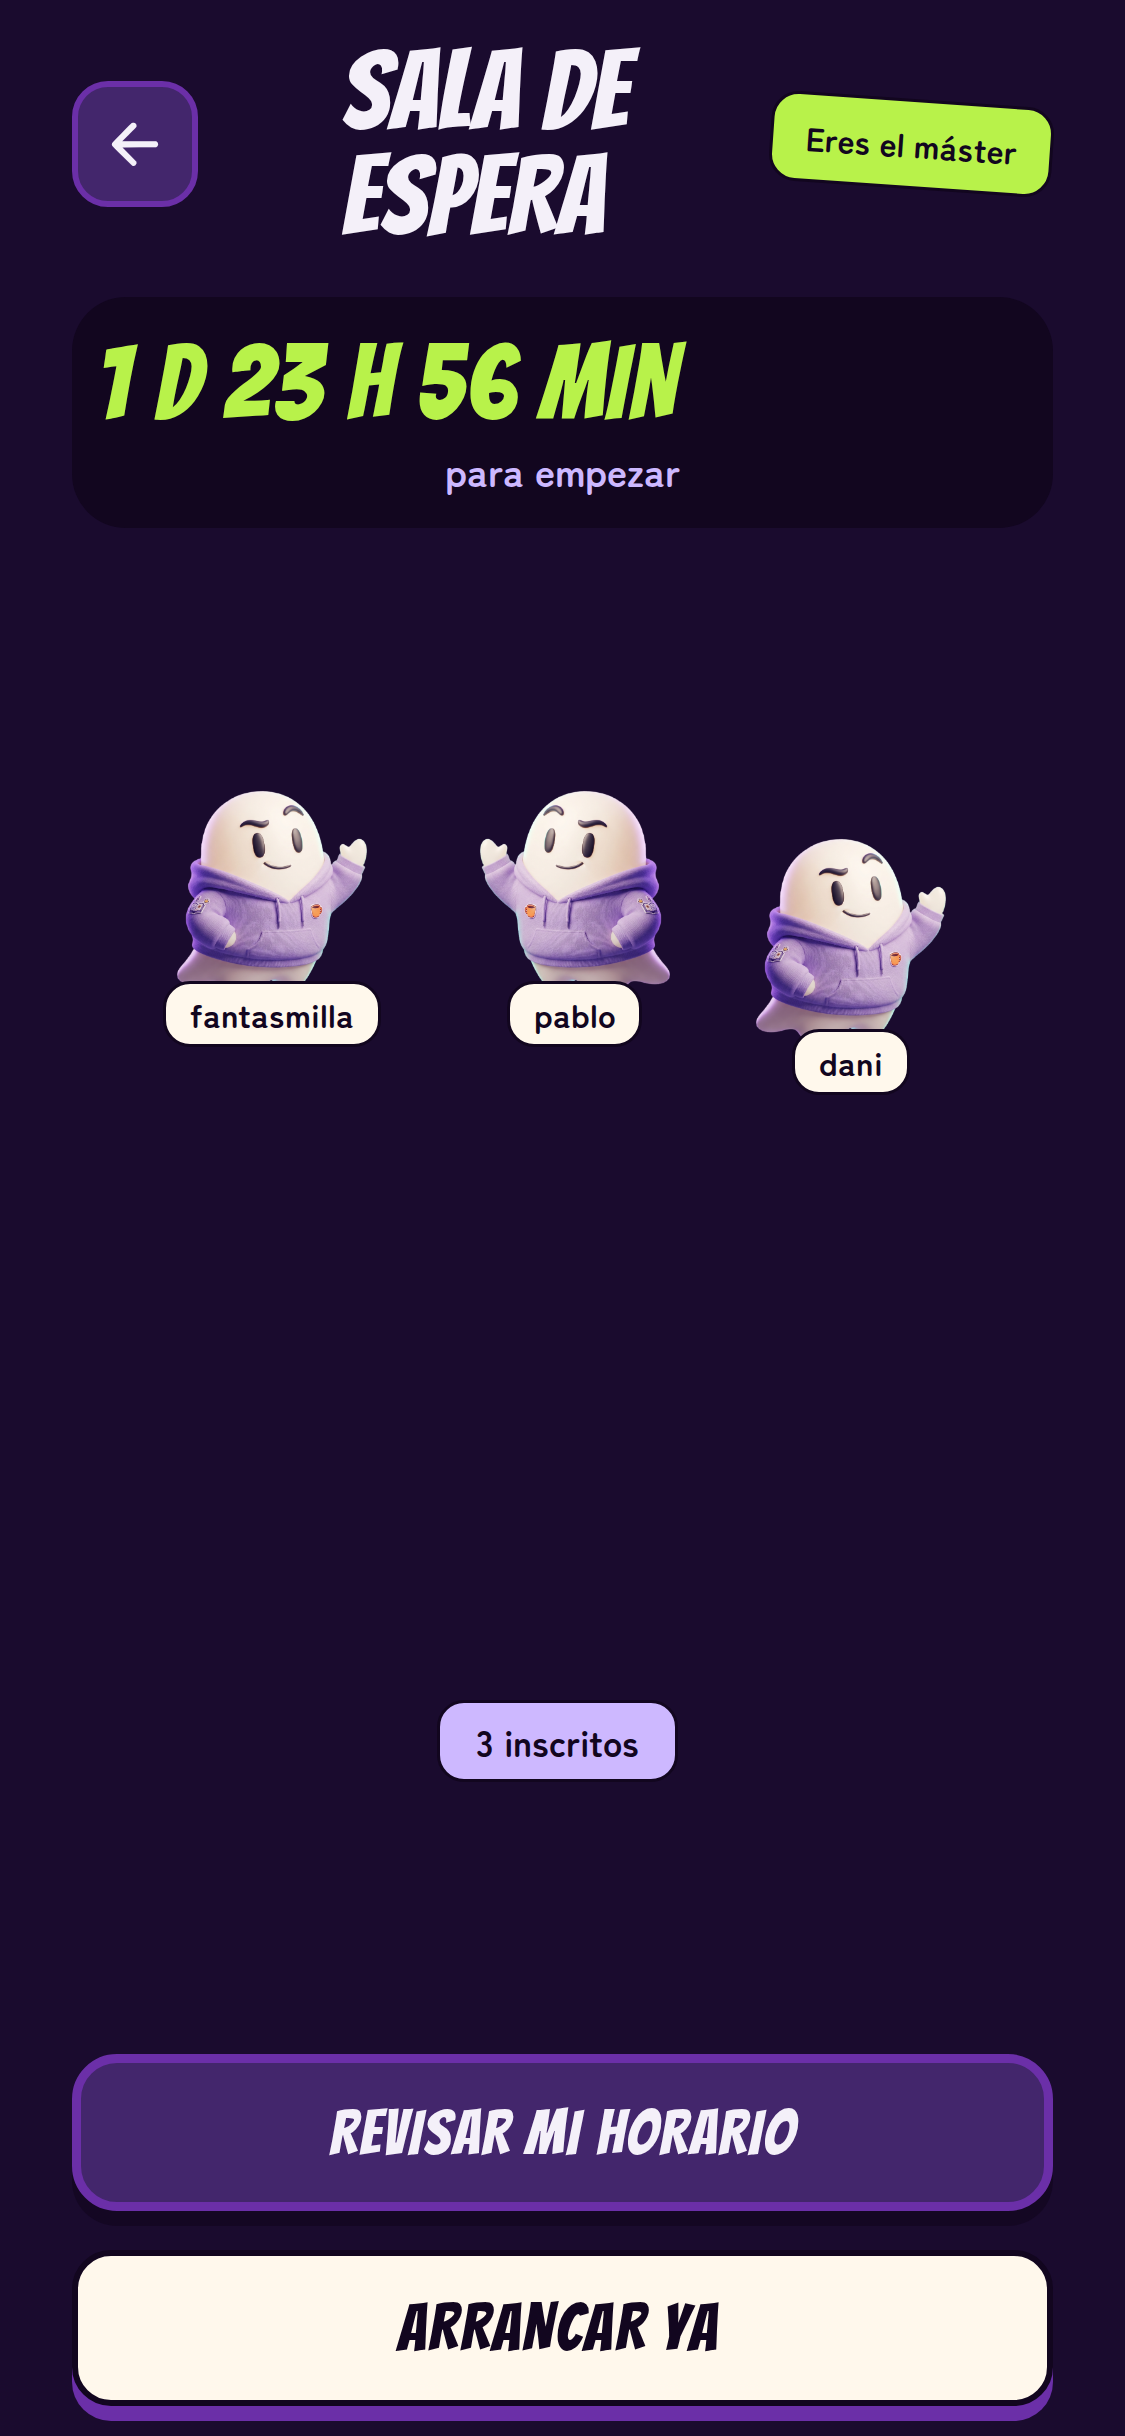
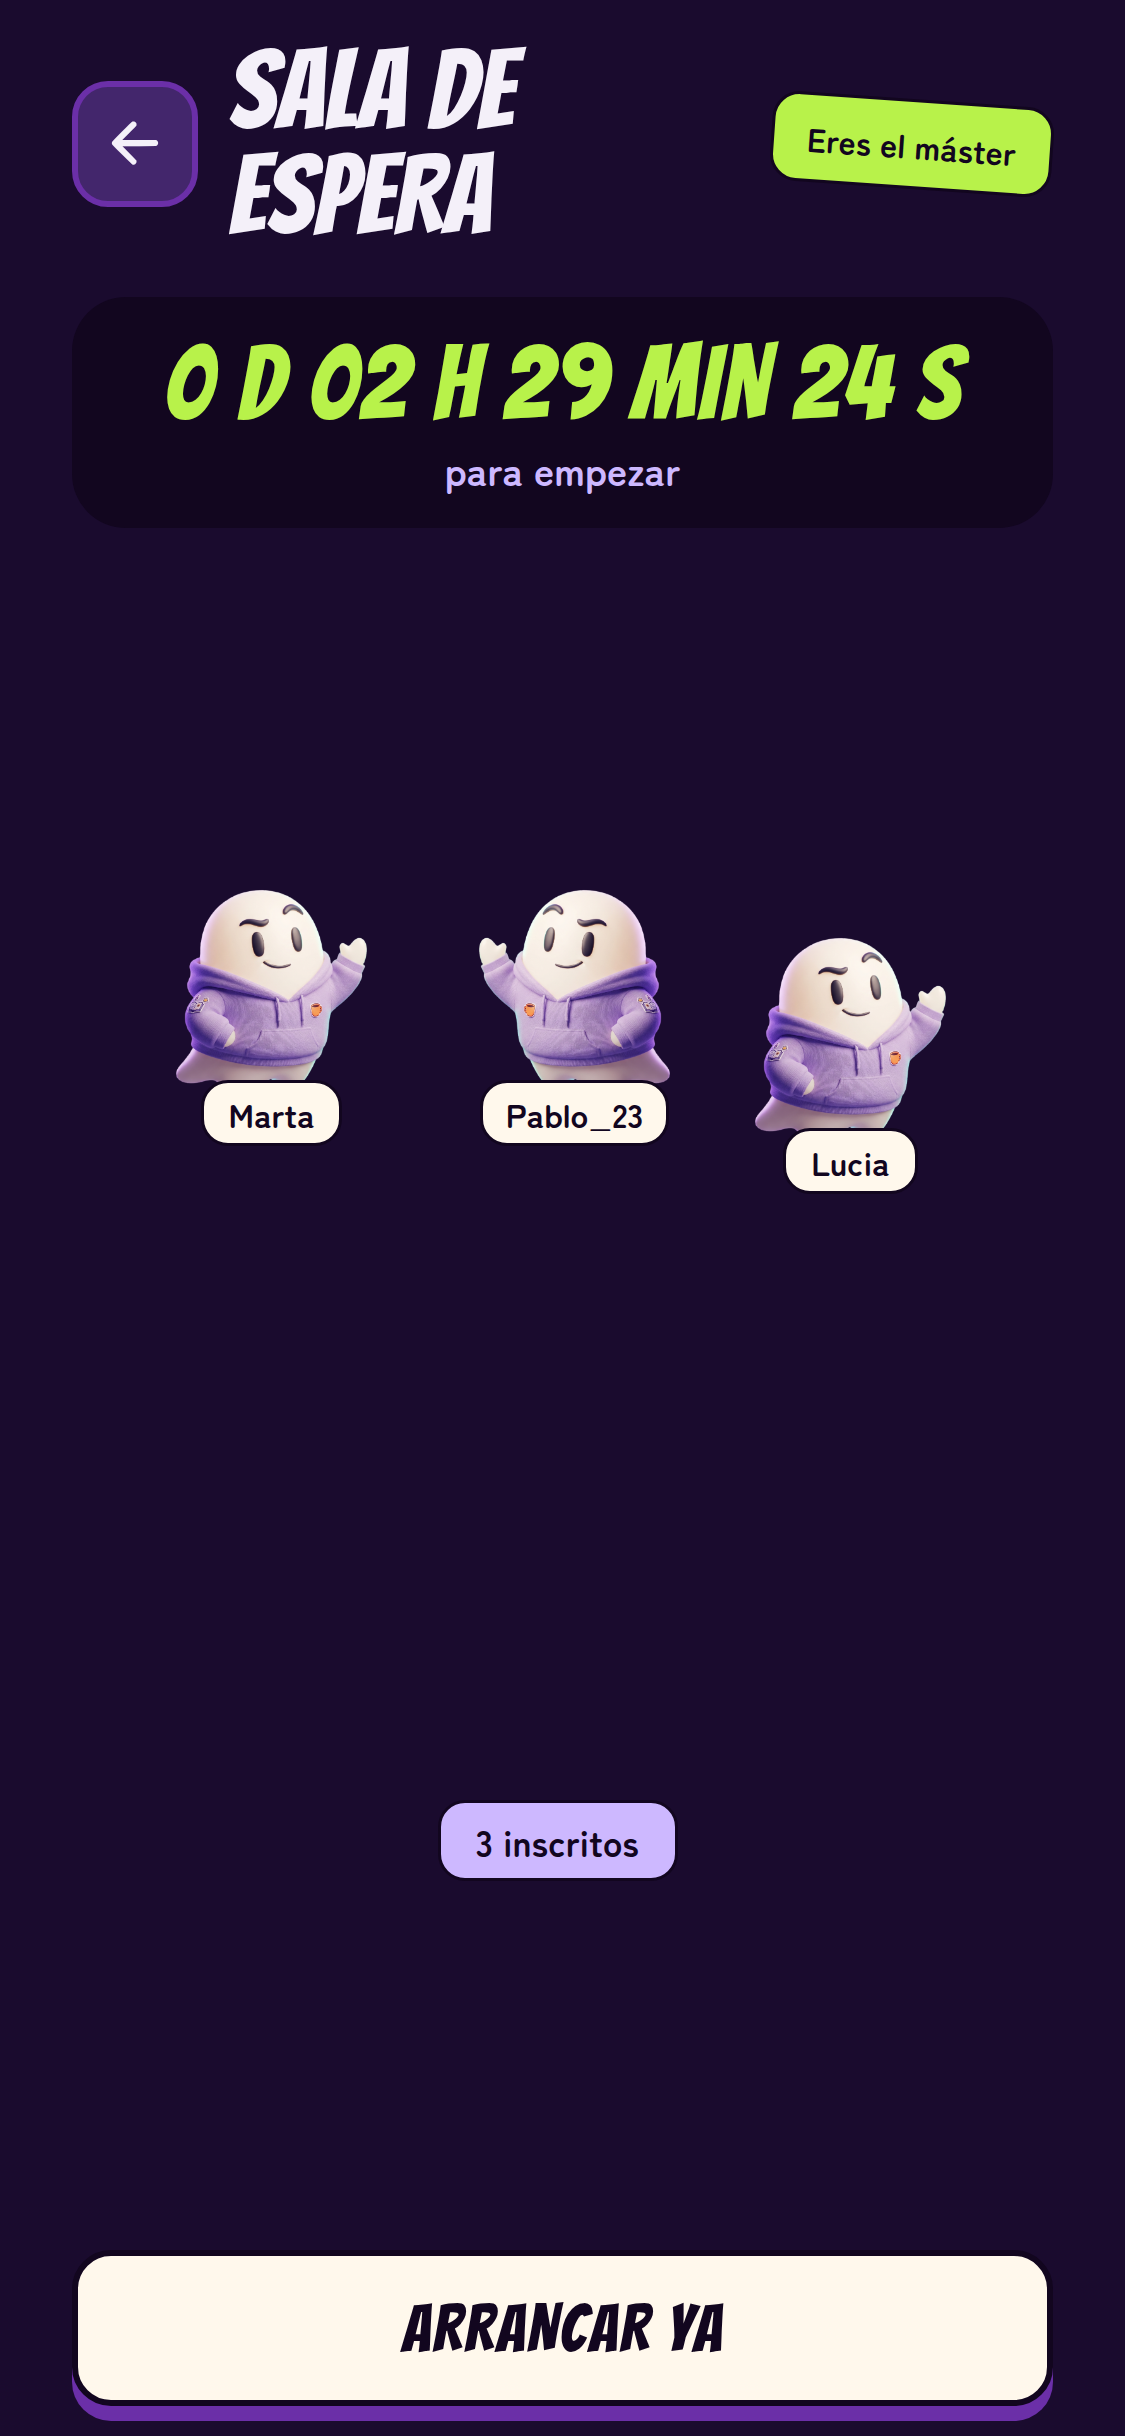
Tarea #188: documentación de diseño y manual al día tras el S1
- arquitectura.md, «Sprint 1»: lista de eventos y PBI 2-5 (partida,
  inscripción, arranque con la tarea de cada minuto y el arranque pendiente
  al consultar, ciclo de objetivos y carta con las misiones).
- aceptacion-pbi-1.md y aceptacion-pbi-2.md: cada criterio con sus tests
  del servidor y de la app, como en las PBI 3, 4 y 5.
- Capturas del manual rehechas con la app de main: cuenta atrás con
  segundos, sala con botón de volver y botones con relieve.

diff --git a/docs/diseno/arquitectura.md b/docs/diseno/arquitectura.md
@@ -28,6 +28,20 @@ La posición del jugador nunca sale del móvil. Cuando se introduce un código d
   - El permiso de ubicación y el aviso de disponibilidad guardan el instante de la primera aceptación; aceptarlos otra vez no cambia nada.
   - Borrar la cuenta es un borrado físico: la fila de `cuenta` y, en cascada, su horario y sus tokens.
   - En la app, el alta tiene cuatro pasos (alias y acceso, horario lectivo, permiso de ubicación y aviso de disponibilidad) y el token de refresco se guarda en el almacenamiento seguro del móvil (SecureStore).
+- **Lista de eventos.** El módulo `evento` guarda cada evento en la misma transacción que el cambio que registra, con la fila de la partida bloqueada (`select … for update`) y la secuencia siguiente de esa partida. Los eventos identifican al jugador por su inscripción y no se modifican. Tipos y datos de cada uno en «`evento`» de [`modelo-datos.md`](modelo-datos.md).
+- **Crear y configurar una partida (PBI 2).** El módulo `partida` crea la partida con un código de invitación de 8 caracteres (sin 0, O, 1, I ni L), guarda `PARTIDA_CREADA` y deja editarla al máster solo mientras está en inscripción, con `CONFIGURACION_CAMBIADA` por cada cambio. La columna `estado` es una copia del estado que dan los eventos, para listar partidas sin reproducirlos.
+  - Si el máster borra su cuenta, sus partidas en inscripción se cancelan en la misma transacción.
+  - En la app, el asistente tiene tres pasos (datos, reglas y compartir); los de misiones y zonas seguras llegan con las PBI 6 y 10. «Compartir» enseña el QR (`react-native-qrcode-svg`) y el enlace `ghostmark://unirse/<código>`, que la app abre por su esquema `ghostmark`.
+- **Inscribirse (PBI 3).** El módulo `inscripcion` inscribe al jugador con las normas aceptadas y le copia el horario de su cuenta en un horario propio de esa partida, que puede cambiar hasta el arranque sin tocar el de la cuenta ni el de sus otras partidas. Si el máster juega, tiene su inscripción como cualquier otro.
+  - Al borrar la cuenta, la inscripción se borra si la partida no ha arrancado; si está en juego se queda sin cuenta, porque la cadena y los eventos la siguen usando.
+  - En la app, el escáner usa la cámara (`expo-camera`) y solo acepta enlaces de invitación válidos; un enlace recibido sin sesión espera al inicio de sesión y a los permisos. Después vienen las normas y la sala de espera con los inscritos.
+- **Arrancar la partida y formar la cadena (PBI 4).** El módulo `juego` arranca la partida de tres maneras con el mismo método:
+  - una tarea programada cada minuto (`TareaArranque`) revisa las partidas en inscripción con la hora de inicio pasada;
+  - como el servidor de Render se duerme y entonces la tarea no corre, un interceptor (`InterceptorArranquePendiente`) aplica el arranque o la cancelación pendiente antes de atender cualquier petición sobre la partida;
+  - el máster puede adelantarlo con «Arrancar ya» desde 3 jugadores.
+  - Con 3 o más jugadores, en una sola transacción se guardan `PARTIDA_ARRANCADA`, `CICLO_FORMADO` y `MISIONES_REPARTIDAS`, y los horarios quedan congelados; con menos, `PARTIDA_CANCELADA`. Si dos arranques coinciden, el segundo ve que la partida ya no está en inscripción y no hace nada.
+  - El ciclo de objetivos baraja las inscripciones con Fisher-Yates y `SecureRandom` (`GeneradorCiclo`): cada jugador persigue al siguiente y el último al primero. El orden solo se guarda en el evento; la API da a cada jugador su objetivo.
+- **Carta de misión (PBI 5).** La biblioteca de misiones se carga con una migración, ya revisada (sin contacto físico ni objetos que simulen armas). Al arrancar, cada jugador recibe una misión activa al azar, sin repetir mientras queden. La API solo devuelve la carta propia; en la app la carta sale boca abajo y se ve mientras se mantiene pulsada.
 
 ## Decisiones técnicas abiertas
 

diff --git a/docs/pruebas/aceptacion-pbi-2.md b/docs/pruebas/aceptacion-pbi-2.md
@@ -1,0 +1,37 @@
+# Aceptación de la PBI 2 — Crear y configurar una partida
+
+PBI #3. Los tests son los de las tareas del sprint 1; esta tabla los enlaza con cada criterio (#188).
+
+| Criterio o caso | Test |
+|---|---|
+| 1. La partida se guarda con sus valores y se rechaza un fin anterior al inicio | `PartidaIntegracionTest.criterio1CrearPartidaGuardaSusValoresYRechazaFinAnteriorAlInicio` |
+| 1. Crear devuelve el máster y el código, y guarda el evento `PARTIDA_CREADA` | `PartidaTest.crearPartidaDevuelve201ConMasterYCodigo` y `crearPartidaGuardaEventoPartidaCreada` |
+| 1. Fin antes del inicio, inicio a menos de 15 minutos, reglas no válidas y cuerpo vacío dan 400 | `PartidaTest.finAntesDelInicioDa400`, `inicioDemasiadoProntoDa400`, `reglasNoValidasDan400` y `cuerpoVacioDa400ConTodosLosCampos` |
+| 1. Solo el máster ve y cambia la configuración, y cada cambio guarda su evento | `PartidaIntegracionTest.soloElMasterVeYCambiaLaConfiguracion` y `elMasterCambiaLaConfiguracionYSeGuardaElEvento` |
+| 1. Cambios no válidos o con la partida ya arrancada no se guardan | `PartidaIntegracionTest.cambiosNoValidosDan400YNoSeGuardan` y `partidaQueYaNoEstaEnInscripcionDa409` |
+| 1. «Yo también juego» crea y borra la inscripción del máster | `PartidaIntegracionTest.yoTambienJuegoCreaYBorraLaInscripcionDelMaster` |
+| 1. Quien no es máster ni inscrito no ve la partida | `PartidaIntegracionTest.quienNoEsMasterNiInscritoNoVeLaPartida` |
+| 1. Si el máster borra su cuenta, sus partidas en inscripción se cancelan | `PartidaCanceladaTest.borrarCuentaDelMasterCancelaPartidasEnInscripcion` |
+| 1. El asistente de la app muestra sus tres pasos y el nombre empieza vacío | `wizard.test.cjs`: «el asistente muestra los tres pasos que existen sin saltar del 2 al 5»; `invitation.test.cjs`: «el nombre de la partida empieza vacío, con «Killer Bienvenida EINA» como ejemplo» |
+| 1. Crear la partida en la app abre «Compartir» | `invitation.test.cjs`: «crear una partida abre compartir y retira los formularios del historial» |
+| 2. El enlace del QR abre esa partida | `PartidaIntegracionTest.criterio2ElEnlaceDelQrAbreEsaPartida`; `PartidaCodigoTest.jugadorAutenticadoConsultaPartidaPorCodigo` y `codigoDesconocidoDa404` |
+| 2. El QR y «Copiar» usan el enlace del servidor | `invitation.test.cjs`: «el QR y copiar usan el enlace del servidor; ir a la partida abre la sala» |
+| 2. La app solo acepta enlaces `ghostmark://unirse/<código>` válidos | `invitation.test.cjs`: «normaliza minúsculas en enlaces válidos» y «rechaza esquemas, rutas, longitudes y caracteres ajenos al contrato» |
+| 2. El enlace abre la partida con la app cerrada o abierta | `invitation.test.cjs`: «un enlace con la app cerrada abre la partida tras restaurar sesión y preparar el navegador» y «con la app abierta se pueden abrir dos invitaciones consecutivas» |
+
+## Ejecución
+
+Con Java 21 y Docker disponibles, desde la raíz:
+
+```powershell
+cd backend
+.\mvnw.cmd clean verify
+cd ../mobile
+npm ci
+npm run typecheck
+npm run lint
+npm test
+cd ..
+```
+
+`ci-backend` descubre los tests Java y `ci-mobile` ejecuta los de la app con `npm test`. Los tests del servidor usan HTTP real y PostgreSQL de Testcontainers; los de la app montan las pantallas y el cliente HTTP reales con la red simulada.

diff --git a/docs/pruebas/aceptacion-pbi-1.md b/docs/pruebas/aceptacion-pbi-1.md
@@ -1,0 +1,39 @@
+# Aceptación de la PBI 1 — Cuenta del jugador
+
+PBI #2. Los tests son los de las tareas del sprint 1; esta tabla los enlaza con cada criterio (#188).
+
+| Criterio o caso | Test |
+|---|---|
+| 1. Crear la cuenta e iniciar sesión; con datos incorrectos no entra | `CuentaIntegracionTest.criterio1CrearCuentaEIniciarSesionYRechazarDatosIncorrectos` |
+| 1. Alias o email repetidos y datos mal formados dan error | `SesionTest.duplicadosYDatosMalDanError` y `loginConDatosMalFormadosDa400` |
+| 1. La contraseña no se guarda legible | `CuentaIntegracionTest.contrasenaNoSeGuardaLegible` |
+| 1. El refresco cambia el token y cerrar sesión lo revoca | `SesionTest.refrescoRotaYCierreRevoca` y `cierreConTokenAjenoNoLoRevoca` |
+| 1. Una ruta protegida sin token da 401 | `SesionTest.rutaProtegidaSinTokenDa401NoAutenticado` |
+| 1. La app valida el alta y el inicio antes de enviarlos | `account-validation.test.cjs`: «el alta valida alias, email y contraseña sin pedir nada al servidor» y «el inicio valida email y contraseña vacía antes de enviarlos» |
+| 1. La app renueva la sesión una sola vez con varias peticiones a la vez y guarda el token nuevo | `session.test.cjs` |
+| 1. Sin sesión la app abre en «Iniciar sesión» | `invitation.test.cjs`: «sin sesión la app abre en «Iniciar sesión»» |
+| 2. Horario y aceptaciones se piden una sola vez | `CuentaIntegracionTest.criterio2HorarioYAceptacionesQueSePidenUnaSolaVez`; `AceptacionesTest.registraAceptacionesSoloUnaVez` |
+| 2. La cuenta solo guarda alias, datos de acceso, horario y aceptaciones | `CuentaIntegracionTest.criterio2LaCuentaSoloGuardaAliasDatosDeAccesoYAceptaciones` (los amigos llegan con la PBI 15) |
+| 2. Guardar, sustituir y vaciar el horario; un horario no válido no cambia el anterior | `HorarioTest.guardarYConsultarHorario`, `sustituirYVaciarHorario` y `rechazarHorarioInvalidoSinModificarAnterior` |
+| 2. La app pasa al aviso o al permiso que falte, y a Inicio con los dos aceptados | `session.test.cjs` (`nextAccountScreen`) |
+| 2. La app explica el permiso de ubicación y ofrece los ajustes si Android ya no deja preguntar | `location.test.cjs` |
+| 2. La app avisa al añadir, unir y quitar franjas del horario | `day-schedule-modal.test.cjs` |
+| 3. Borrar la cuenta impide iniciar sesión y libera el alias | `CuentaIntegracionTest.criterio3BorrarLaCuentaImpideIniciarSesionYLiberaElAlias`; `BorradoCuentaTest.borrarCuentaEliminaDatosEImpideIniciarSesion` |
+| 3. Tras borrar la cuenta, la app vuelve a «Iniciar sesión» | `invitation.test.cjs`: «cerrar sesión y borrar la cuenta llevan a «Iniciar sesión»» |
+
+## Ejecución
+
+Con Java 21 y Docker disponibles, desde la raíz:
+
+```powershell
+cd backend
+.\mvnw.cmd clean verify
+cd ../mobile
+npm ci
+npm run typecheck
+npm run lint
+npm test
+cd ..
+```
+
+`ci-backend` descubre los tests Java y `ci-mobile` ejecuta los de la app con `npm test`. Los tests del servidor usan HTTP real y PostgreSQL de Testcontainers; los de la app montan las pantallas y el cliente HTTP reales con la red simulada.
